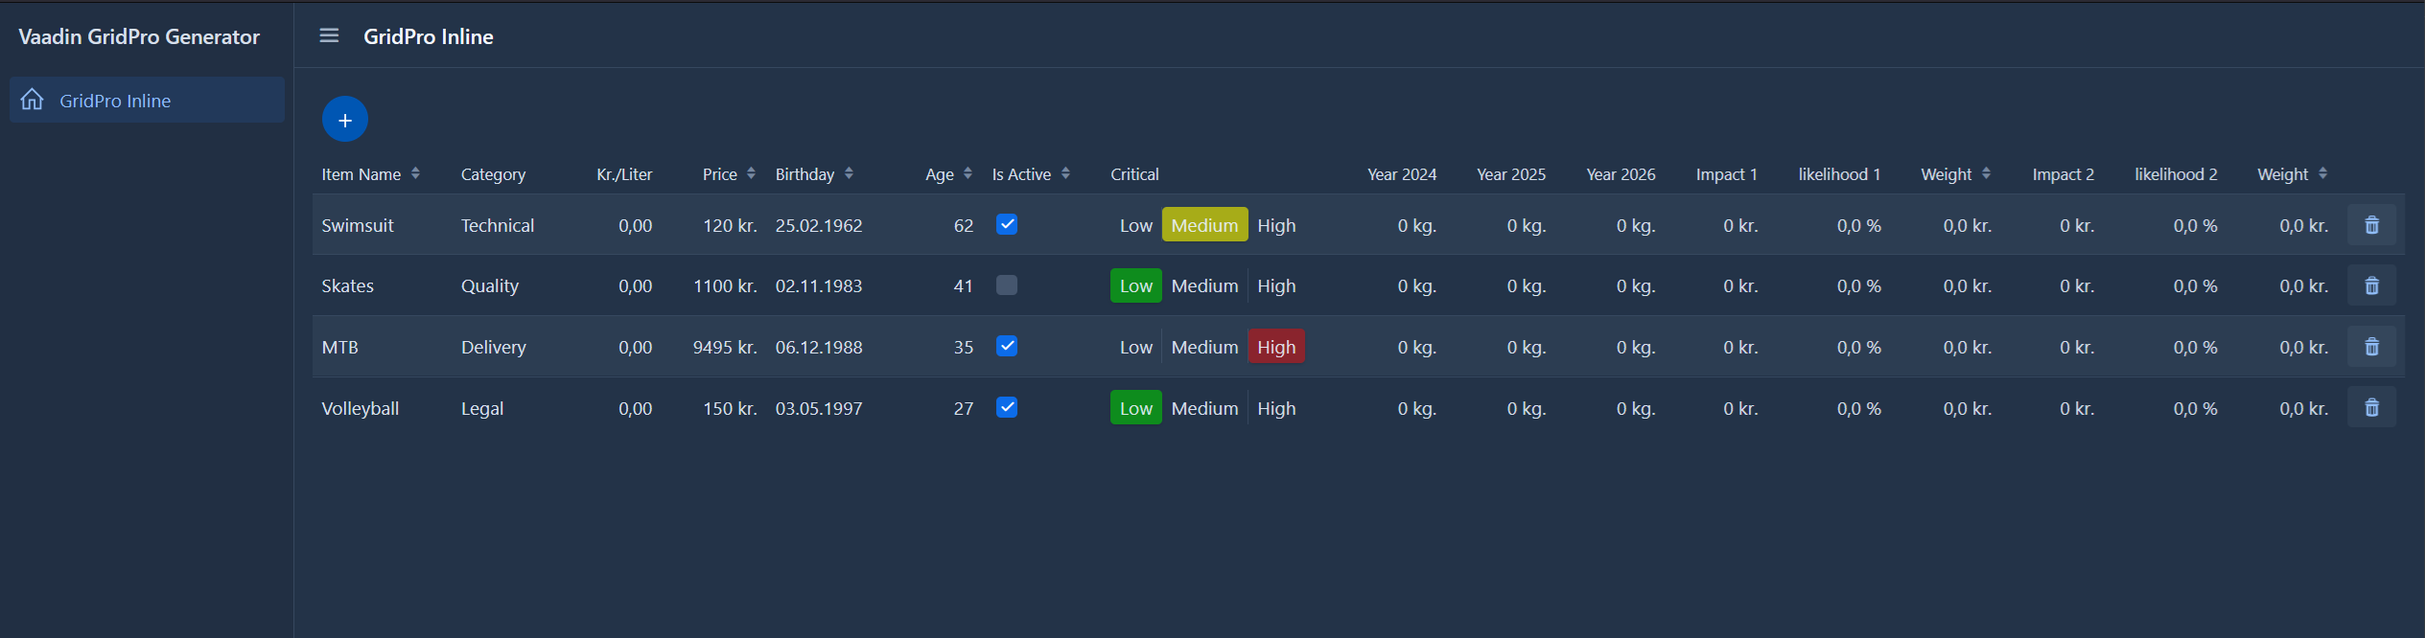
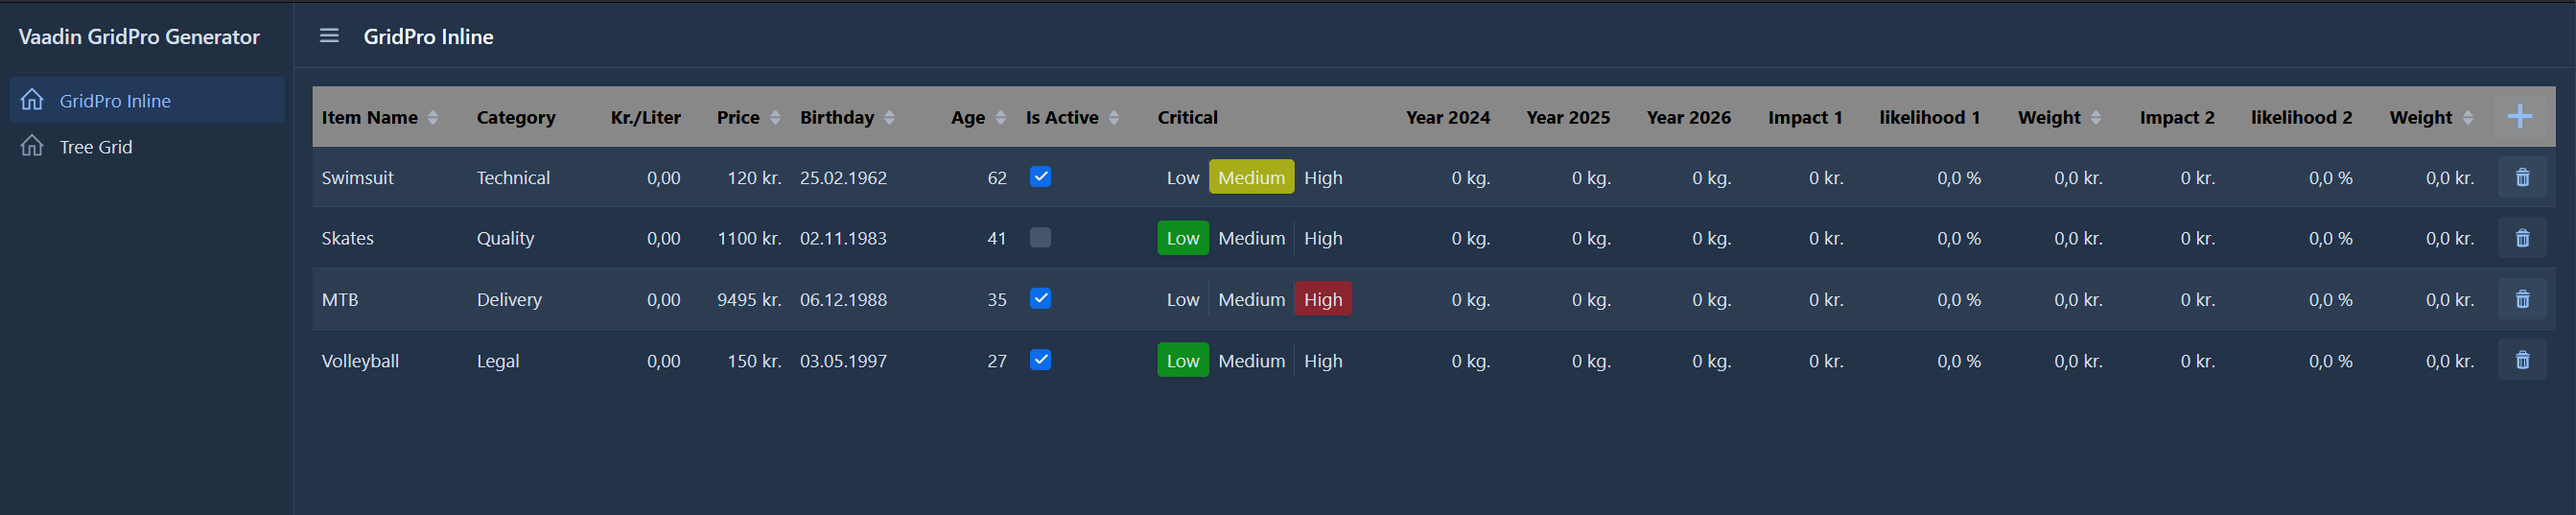
minor visual improvements/changes

diff --git a/src/main/frontend/themes/vaadin-gridpro-generator/main-layout.css b/src/main/frontend/themes/vaadin-gridpro-generator/main-layout.css
@@ -57,14 +57,15 @@ vaadin-side-nav-item vaadin-icon {
 }
 
 
-.vaadin-tree-grid::part(header-cell) {
-    background: #aaaaaa;
+.vaadin-grid-generator::part(header-cell) {
+    background: #888888;
     color: #000000;
     font-weight: bold;
+    font-size: 16px;
 }
 
 
-.vaadin-tree-subgrid::part(header-cell) {
+.vaadin-subgrid-generator::part(header-cell) {
     background: #777777;
     color: #eeeeee;
     font-weight: bold;

diff --git a/src/main/java/dk/netbizz/vaadin/gridpro/views/TreeGridRichContent.java b/src/main/java/dk/netbizz/vaadin/gridpro/views/TreeGridRichContent.java
@@ -22,7 +22,7 @@ import dk.netbizz.vaadin.gridpro.service.ResourceDataService;
 import java.util.List;
 
 
-@PageTitle("Tree Grid")
+@PageTitle("Tree Grid experimental")
 @Menu(order = 2, icon = "line-awesome/svg/home-solid.svg")
 @Route(value = "tree-grid-rich-content", layout = MainLayout.class)
 public class TreeGridRichContent extends VerticalLayout {
@@ -79,8 +79,7 @@ public class TreeGridRichContent extends VerticalLayout {
             Anchor emailLink = new Anchor();
             emailLink.add(emailIcon, email);
             emailLink.setHref("mailto:" + person.getEmail());
-            emailLink.getStyle().set("align-items", "center").set("display",
-                    "flex");
+            emailLink.getStyle().set("align-items", "center").set("display", "flex");
 
             Icon phoneIcon = createIcon(VaadinIcon.PHONE);
             Span phone = new Span(person.getAddress().getPhone());
@@ -88,8 +87,7 @@ public class TreeGridRichContent extends VerticalLayout {
             Anchor phoneLink = new Anchor();
             phoneLink.add(phoneIcon, phone);
             phoneLink.setHref("tel:" + person.getAddress().getPhone());
-            phoneLink.getStyle().set("align-items", "center").set("display",
-                    "flex");
+            phoneLink.getStyle().set("align-items", "center").set("display", "flex");
 
             VerticalLayout column = new VerticalLayout(emailLink, phoneLink);
             column.getStyle().set("font-size", "var(--lumo-font-size-s)")
@@ -121,7 +119,7 @@ public class TreeGridRichContent extends VerticalLayout {
             ResourceView resourceView = new ResourceView(resourceDataService);
             resourceView.genericGrid.setMinHeight("200px");
             resourceView.genericGrid.setMaxHeight("400px");
-            resourceView.genericGrid.addClassName("vaadin-tree-subgrid");
+            resourceView.genericGrid.addClassName("vaadin-subgrid-generator");
             return resourceView;
 
         })

diff --git a/src/main/java/dk/netbizz/vaadin/gridpro/views/ResourceView.java b/src/main/java/dk/netbizz/vaadin/gridpro/views/ResourceView.java
@@ -4,6 +4,7 @@ import com.vaadin.flow.component.grid.GridVariant;
 import dk.netbizz.vaadin.gridpro.entity.Resource;
 import dk.netbizz.vaadin.gridpro.service.ResourceDataService;
 import dk.netbizz.vaadin.gridpro.utils.StandardNotifications;
+import lombok.Getter;
 
 import java.util.ArrayList;
 import java.util.HashMap;
@@ -13,12 +14,13 @@ import java.util.Map;
 
 public class ResourceView extends GenericGridProEditView<Resource> {
 
+
+    private List<Resource> entityList = new ArrayList<>();     // DB
     private final ResourceDataService dataService;
 
     public ResourceView(ResourceDataService dataService) {
         super(Resource.class);
         this.dataService = dataService;
-        dataService.setData(new ArrayList<>());
 
         // Create parameters specifically for the arrays
         // The point is that it is dynamic as to the count and headers of the array columns
@@ -55,17 +57,17 @@ public class ResourceView extends GenericGridProEditView<Resource> {
 
     @Override
     protected void saveEntity(Resource entity) {
-        dataService.save(entity);
+        dataService.save(entity, entityList);
     }
 
     @Override
     protected List<Resource> loadEntities() {
-        return dataService.getEntityList();
+        return entityList;
     }
 
     @Override
     protected void deleteEntity(Resource entity) {
-        dataService.delete(entity);
+        dataService.delete(entity, entityList);
     }
 
     @Override

diff --git a/src/main/java/dk/netbizz/vaadin/gridpro/views/GenericGridProEditView.java b/src/main/java/dk/netbizz/vaadin/gridpro/views/GenericGridProEditView.java
@@ -14,7 +14,7 @@ package dk.netbizz.vaadin.gridpro.views;
  * Besides the most common field types, there is a special option for editing variable length array fields,
  * which is actually why I started to make this, since it avoids having a lot of repetitive application code.
  *
- * Since a user can move complete freely around in the grid you can never know when editing is finished, hence there is instant persistence.
+ * Since a user can move freely around in the grid you can never know when editing is finished, hence there is instant persistence.
  * Every edit of a single cell will cause a call to save the entity of the row.
  *
  * The application domain view must extend this class and replace the generic placeholder with the domain class for the grid.
@@ -81,7 +81,10 @@ public abstract class GenericGridProEditView<T extends BaseEntity> extends Verti
         add(genericGrid);
 
         btnAdd.setClassName("icon-plus");
-        btnAdd.setIcon(new Icon(VaadinIcon.PLUS));
+        Icon plus = new Icon(VaadinIcon.PLUS);
+        plus.setSize("28px");
+        plus.getStyle().set("padding", "0");
+        btnAdd.setIcon(plus);
         btnAdd.addClickListener(evt -> addNew());
     }
 

diff --git a/src/main/java/dk/netbizz/vaadin/gridpro/service/ResourceDataService.java b/src/main/java/dk/netbizz/vaadin/gridpro/service/ResourceDataService.java
@@ -10,15 +10,9 @@ import java.util.List;
 @Service
 public class ResourceDataService {
 
-    @Getter
-    private List<Resource> entityList = new ArrayList<>();     // DB
-
     public ResourceDataService() {
     }
 
-    public void setData(List<Resource> entityList) {
-        this.entityList = entityList;
-    }
 
     public List<String> getItemsForSelect(String colName) {
         List<String> list = new ArrayList<>();
@@ -70,7 +64,7 @@ public class ResourceDataService {
 
     }
 
-    public void save(Resource entity) {
+    public void save(Resource entity, List<Resource> entityList) {
         if (entity.getId() == null) {
             Integer newId = entityList.stream().mapToInt(Resource::getId).max().orElse(0) + 1;
             entity.setId(newId);
@@ -80,7 +74,7 @@ public class ResourceDataService {
         }
     }
 
-    public void delete(Resource entity) {
+    public void delete(Resource entity, List<Resource> entityList) {
         entityList.removeIf(p -> p.getId().equals(entity.getId()));
     }
 

diff --git a/src/main/java/dk/netbizz/vaadin/gridpro/views/ItemView.java b/src/main/java/dk/netbizz/vaadin/gridpro/views/ItemView.java
@@ -48,6 +48,7 @@ public class ItemView extends GenericGridProEditView<Item> {
         genericGrid.setHeight("500px");
         genericGrid.setEmptyStateText("No items found.");
         genericGrid.addThemeVariants(GridVariant.LUMO_COMPACT, GridVariant.LUMO_ROW_STRIPES, GridVariant.LUMO_NO_BORDER);
+        genericGrid.addClassName("vaadin-grid-generator");
 
         // with the dataService set we can now continue the generic setup
         setupGrid(params);

diff --git a/README.md b/README.md
@@ -9,7 +9,7 @@
 * ### Version 0.22 - 2024-11-24  - Added new columns type Trafficlight aka Radiobutton Group
 * ### Version 0.23 - 2024-11-25  - Moved creation of new entity out of generic code and into the domain specific subclass, small text improvements in Trafficlight, simplified columns creation in Generic class, fiddled with Grid layout
 * ### Version 0.24 - 2024-11-27  - Removed state (item list) from the service as it should be, even for a demo :-) added the possibility to have one set of alternating array columns in the end (see demo to understand). Changes to main loop. Added TextAlign as annotation.
-* ### Version 0.25 - 2024-11-29  - Ups, had an immutable list, SORRY - fixed. Created a Icon(VaadinIcon.PLUS) as header of delete column and made it add a new row, removed gridContainer and old add button  - since I needed to fix the bug, you get some very experimental code working on TreeGrid too ...
+* ### Version 0.25 - 2024-11-29  - Ups, had an immutable list, SORRY - fixed. Created a Icon(VaadinIcon.PLUS) as header of delete column and made it add a new row, removed gridContainer and old add button  - there is some very experimental TreeGrid code too ...
 * ###        
 ### Author Mikael Fiil - mikael.fiil@netbizz.dk
 ###
